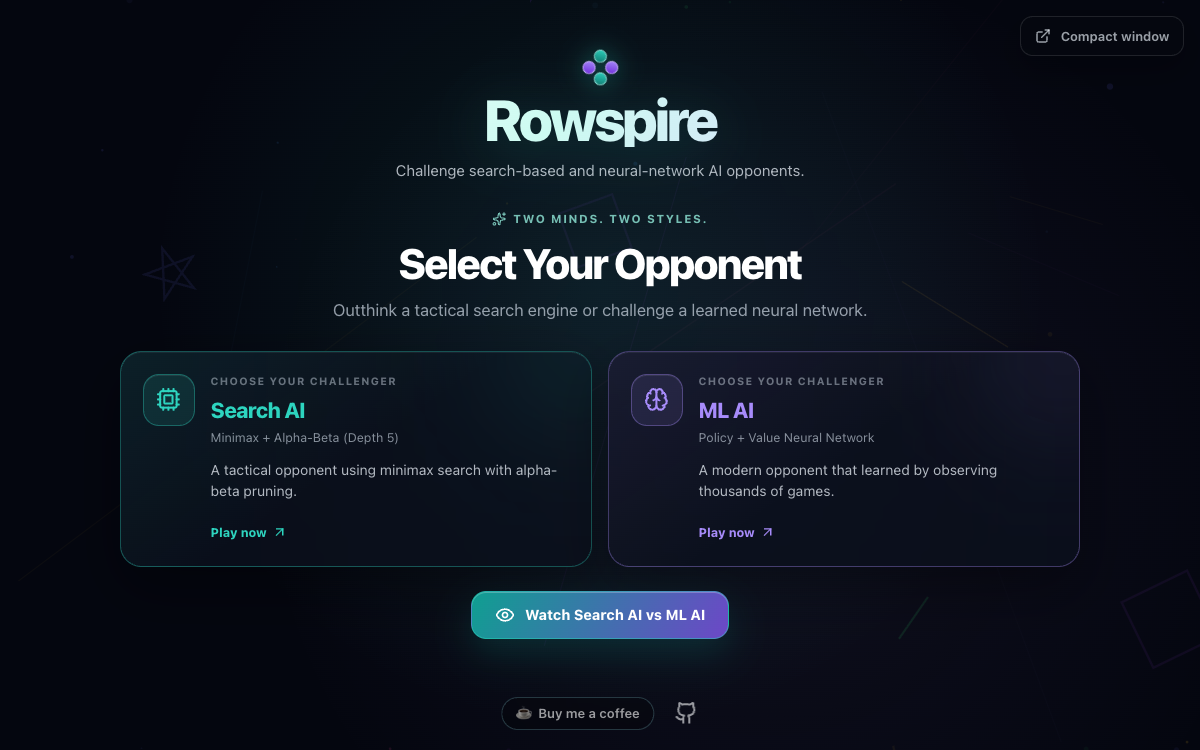
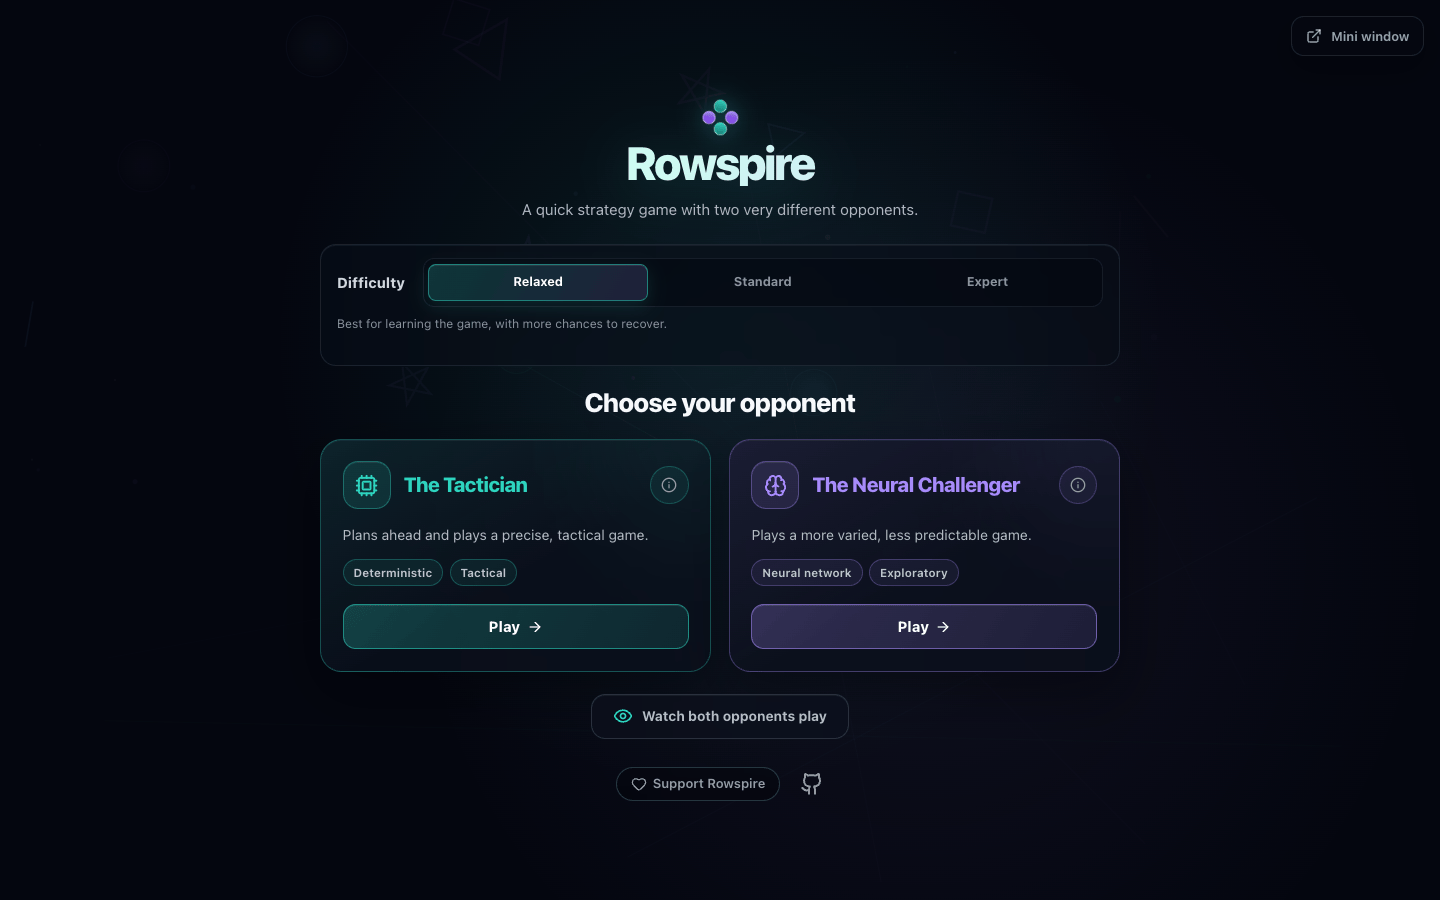
Refresh GitHub project presentation

diff --git a/README.md b/README.md
@@ -1,10 +1,12 @@
 # Rowspire
 
-Rowspire is an independent browser strategy game with two Rust/WebAssembly AI opponents. The React application runs entirely in the browser and is delivered through Cloudflare Workers Static Assets. Anonymous product metrics count game starts and completions by opponent, difficulty, mode, starting side, result, and move count; no board state, move sequence, browser, or user identifier is collected.
+Rowspire is an open-source browser strategy game with two distinct AI opponents: a deterministic tactical search engine and a learned neural challenger. React and Vite power the interface, Rust/WebAssembly runs both opponents off the main thread, and Cloudflare Workers Static Assets delivers the installable PWA.
+
+Anonymous product metrics count game starts and completions by opponent, difficulty, mode, starting side, result, and move count. No board state, move sequence, browser, or user identifier is collected.
 
 [Play Rowspire](https://rowspire.com)
 
-![Rowspire opponent selection](screenshot.png)
+![Rowspire difficulty and opponent selection](screenshot.png)
 
 ## Capabilities
 